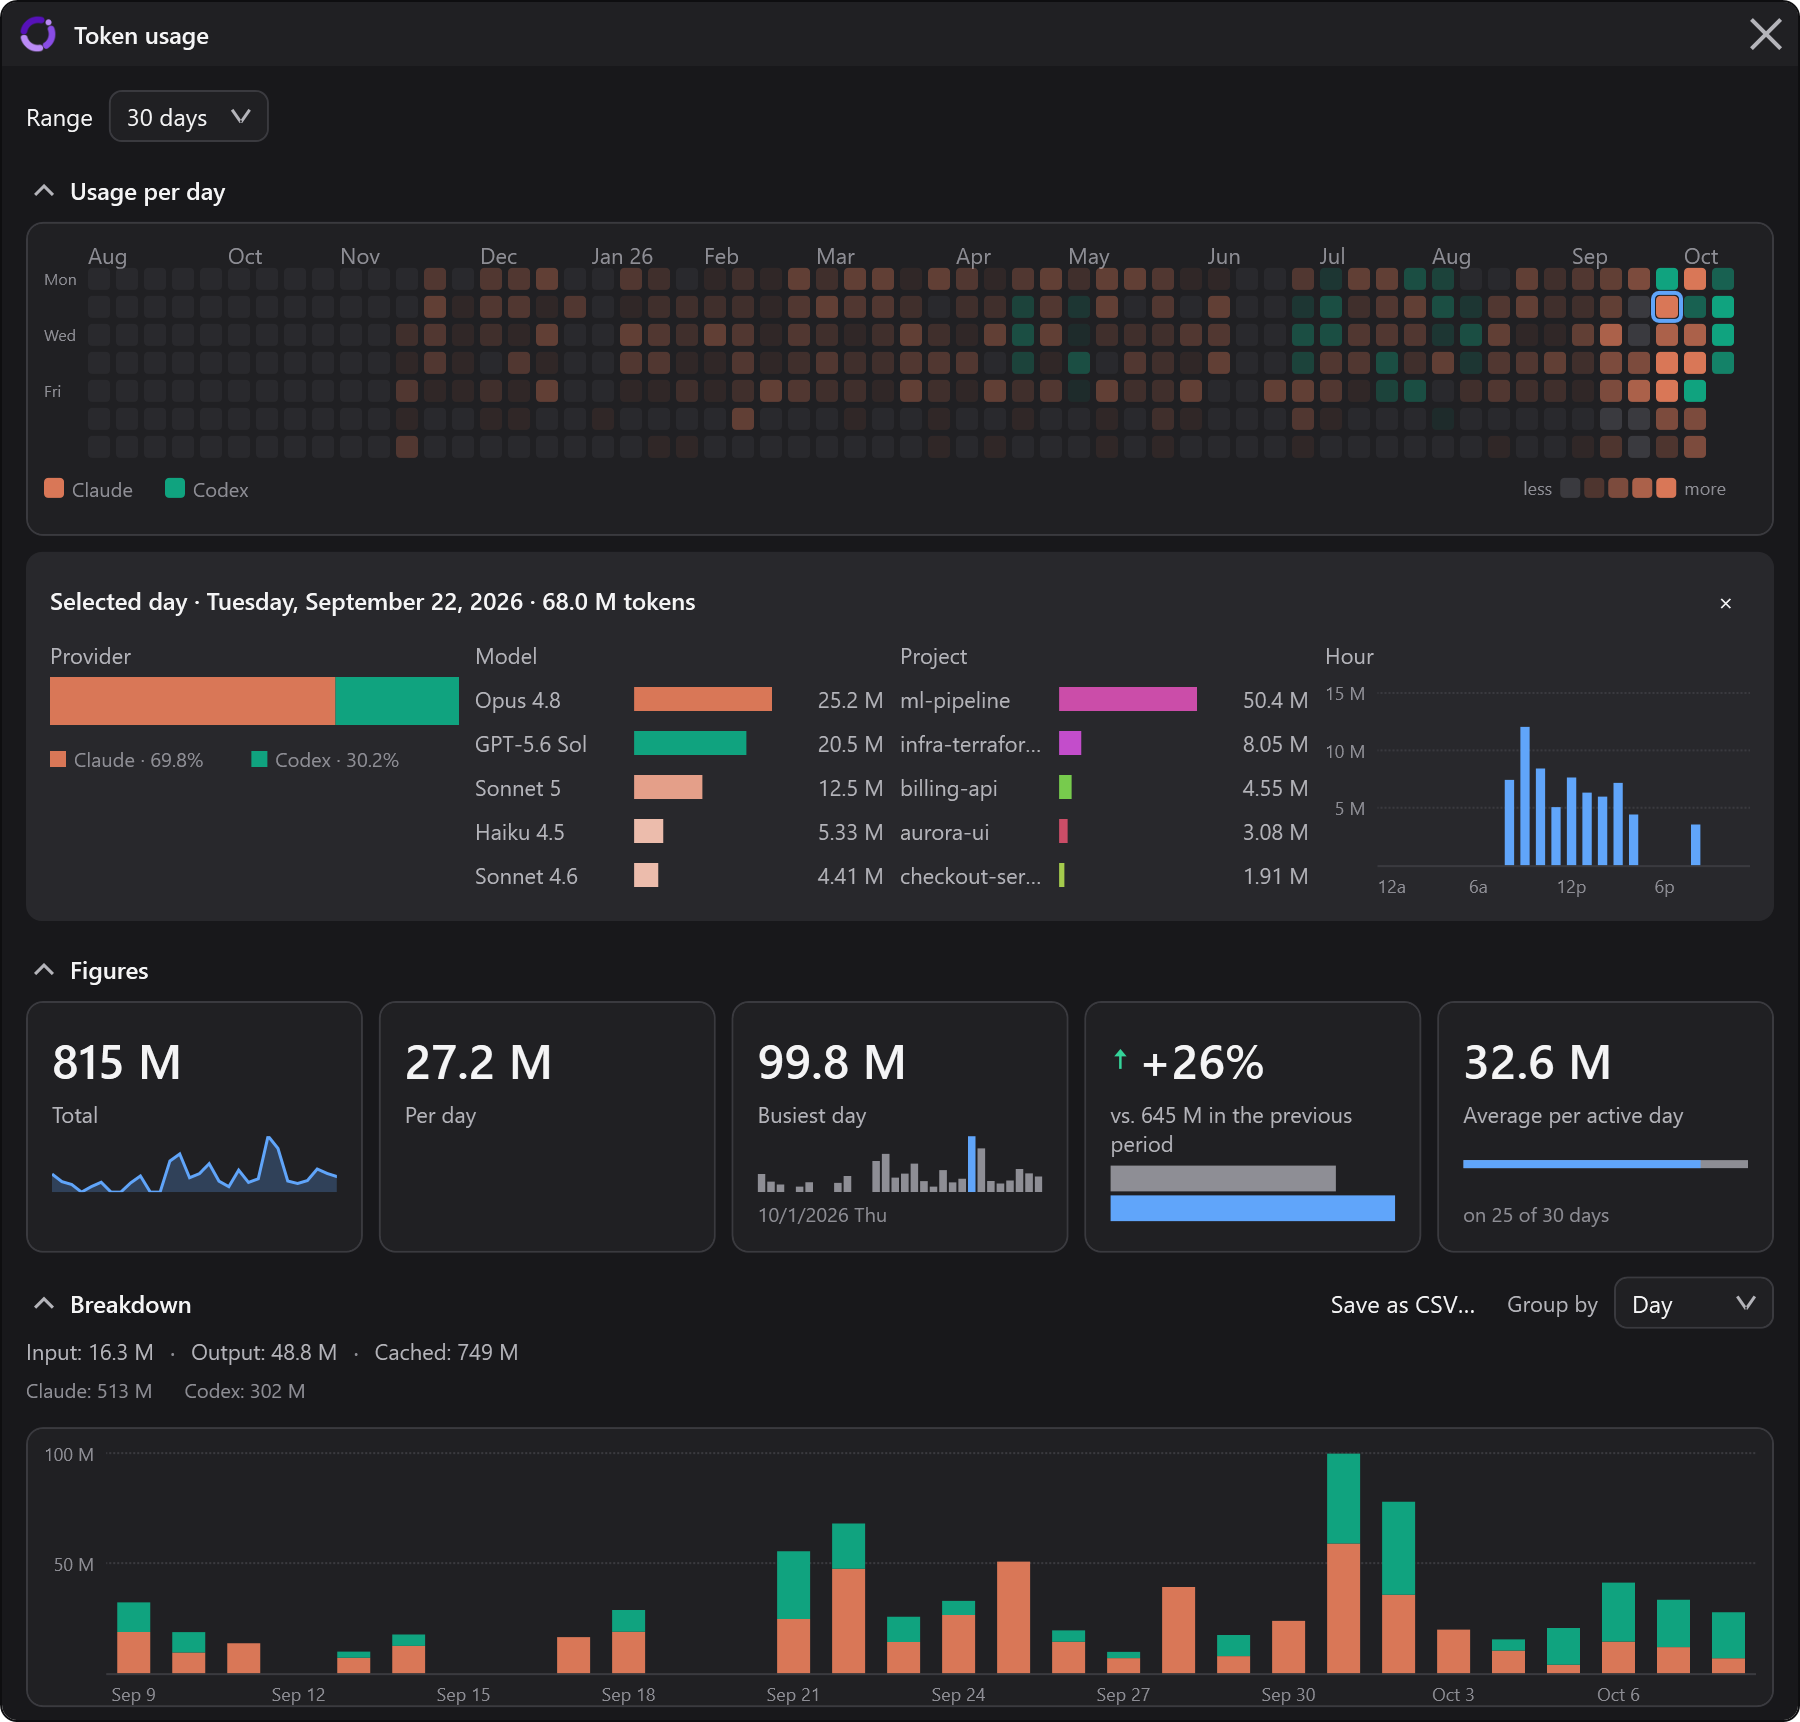
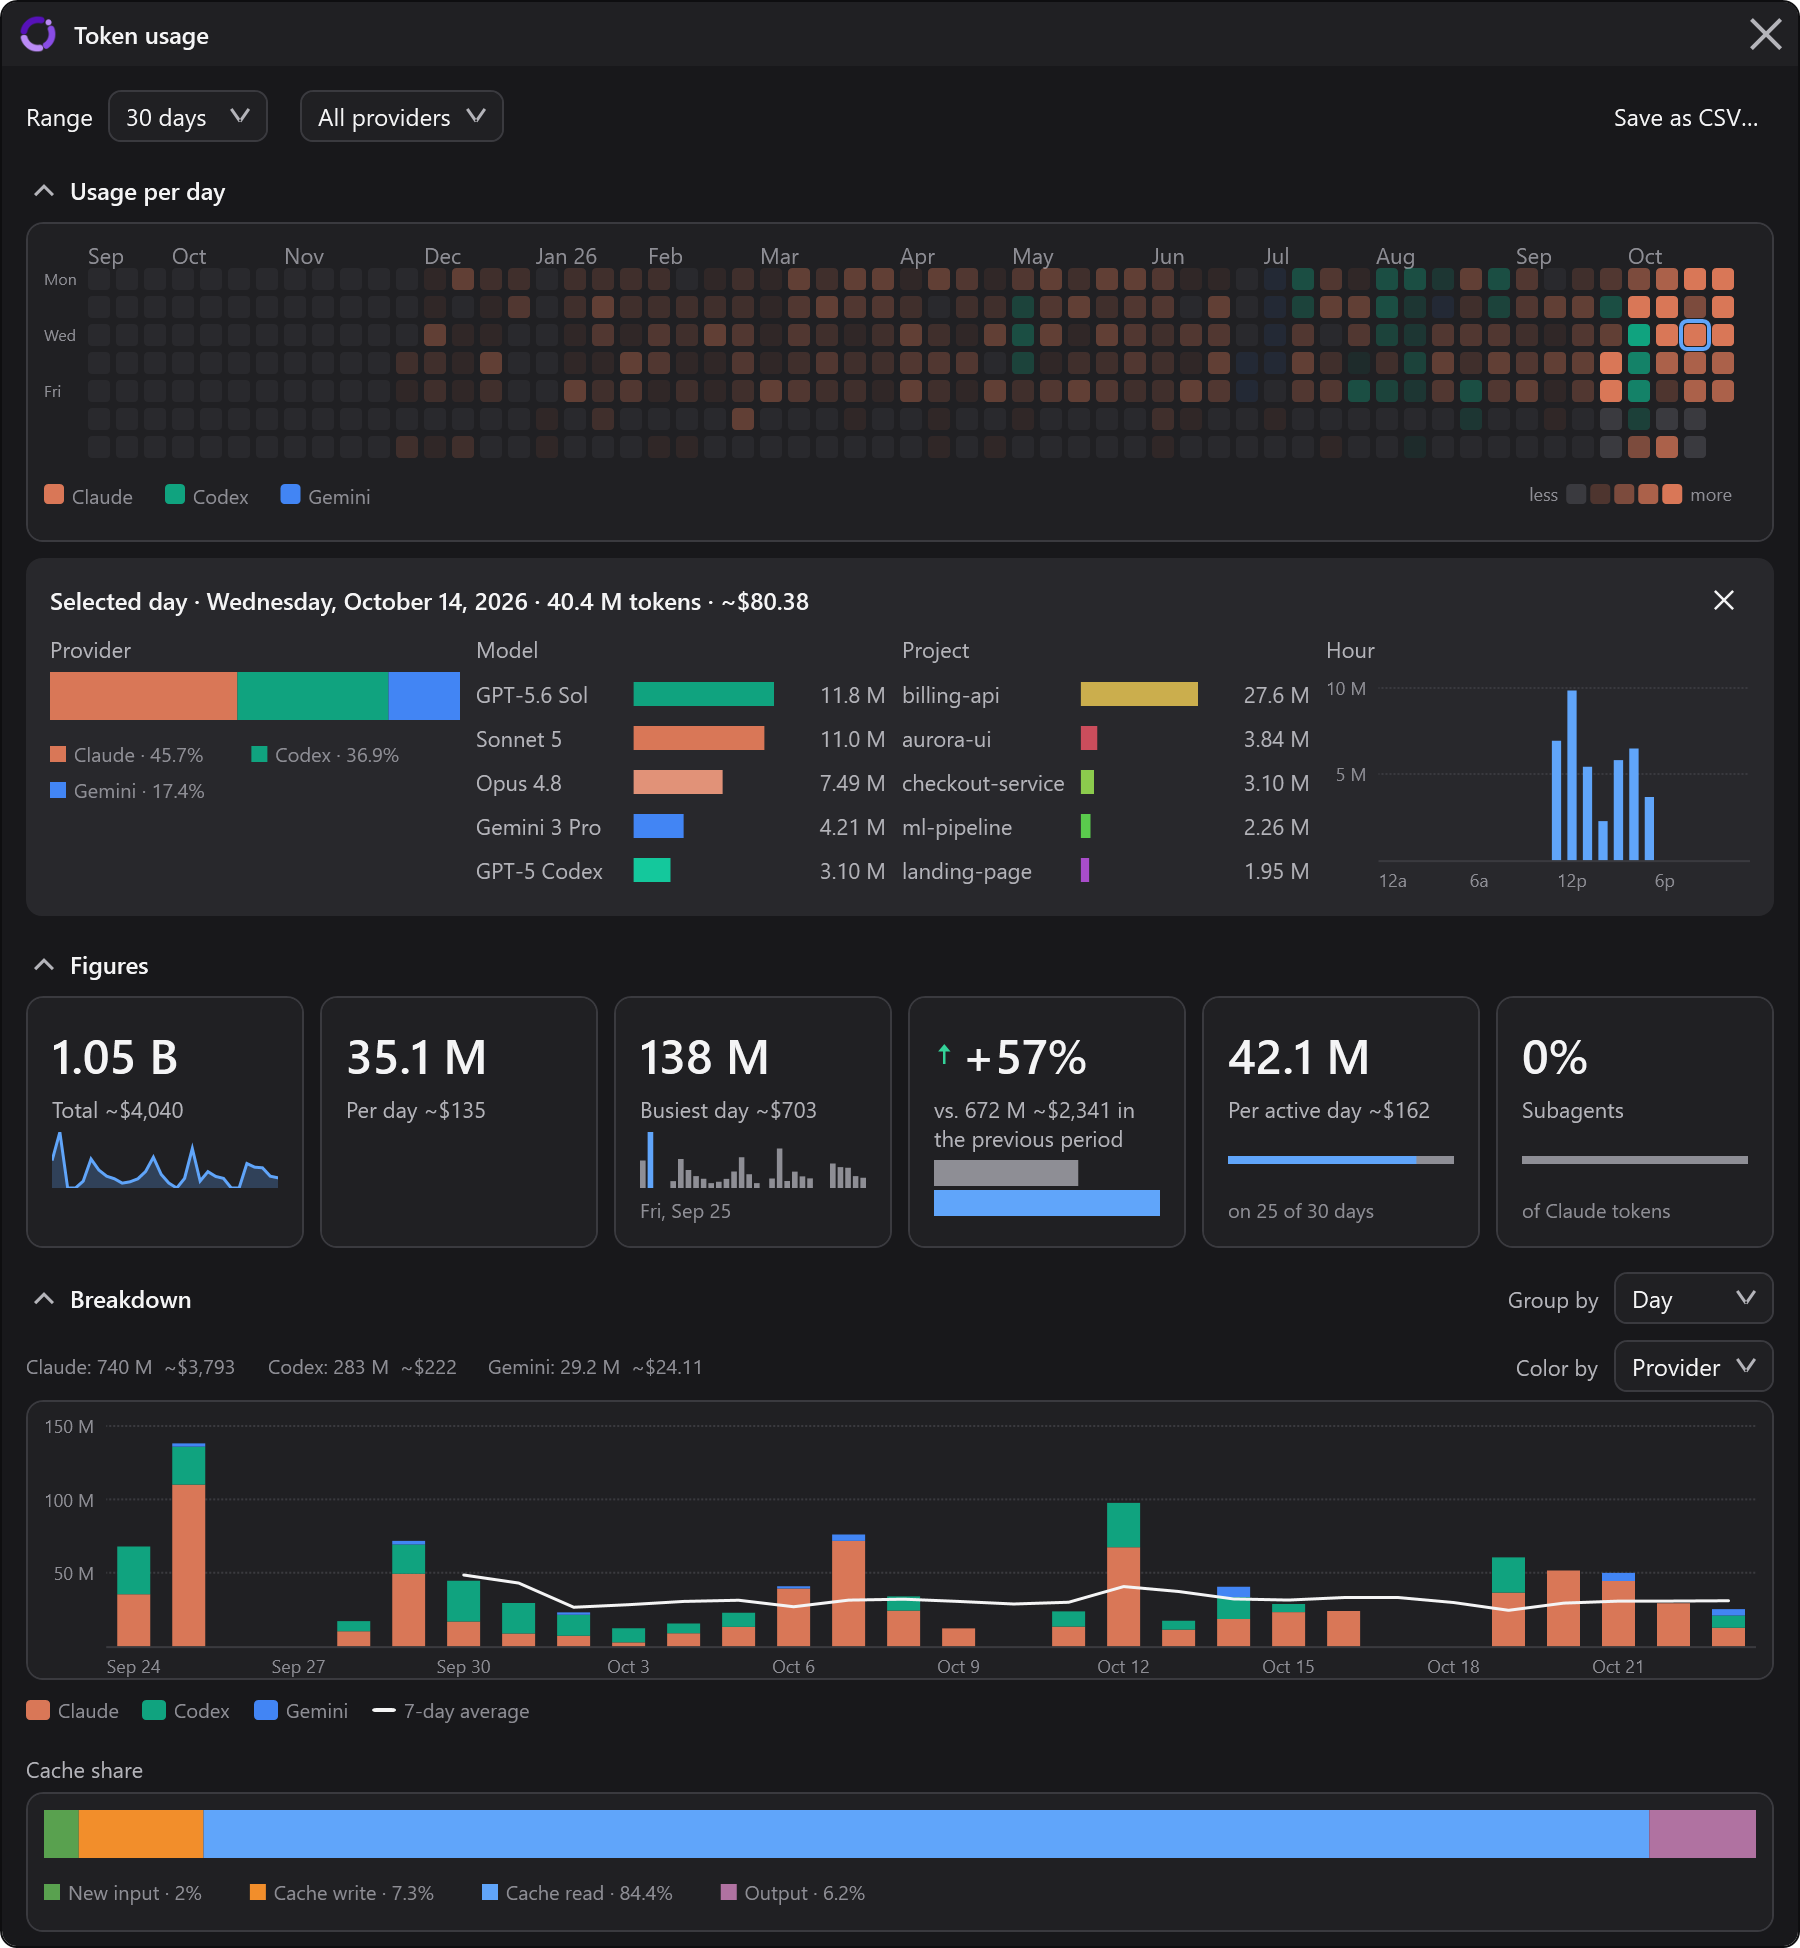
Refresh the token usage screenshot with dollar costs

diff --git a/tools/ReadmeShots/Program.cs b/tools/ReadmeShots/Program.cs
@@ -404,7 +404,7 @@ internal static class Program
         File.WriteAllText(Path.Combine(cacheDirectory, "model-prices.json"), $"{{\"fetchedAt\":\"{stamp}\",\"models\":{{{models}}}}}");
         // usdPerEur: about 0.92 euro per dollar.
         File.WriteAllText(Path.Combine(cacheDirectory, "eur-rate.json"), $"{{\"usdPerEur\":{N(1 / 0.92)},\"fetchedAt\":\"{stamp}\"}}");
-        return new CostService(() => true, () => CostCurrency.Auto, cacheDirectory, networkAllowed: () => false);
+        return new CostService(() => true, () => CostCurrency.Usd, cacheDirectory, networkAllowed: () => false);
     }
 
     /// <summary>The statistics window on its 30 day range with the busy day selected, never shown.</summary>

diff --git a/README.md b/README.md
@@ -157,7 +157,7 @@ Cursor and Copilot keep no token counts on your PC, so the window says so instea
 Gemini counts come from the local conversations of the Antigravity CLI.
 
 <div align="center">
-<img src=".github/images/token-usage.png" width="820" alt="The token usage window with the activity grid, figures and charts, dark theme">
+<img src=".github/images/token-usage.png" width="820" alt="The token usage window with the activity grid, figures with estimated API cost and charts, dark theme">
 <br><sub>The token usage window</sub>
 </div>
 

diff --git a/CHANGELOG.md b/CHANGELOG.md
@@ -58,6 +58,7 @@ See what your tokens would cost at API prices, safer token history with weekly c
 - Read-only text boxes in dialogs and tiles have a name for screen readers.
 - After a damaged statistics file is replaced by its backup, the token usage window opens right away instead of failing once.
 - The first opening of the token usage window no longer stutters while the price list loads.
+- Cost figures of 100 or more are shown without cents, so they fit their tiles instead of being cut off.
 
 ### Security
 
